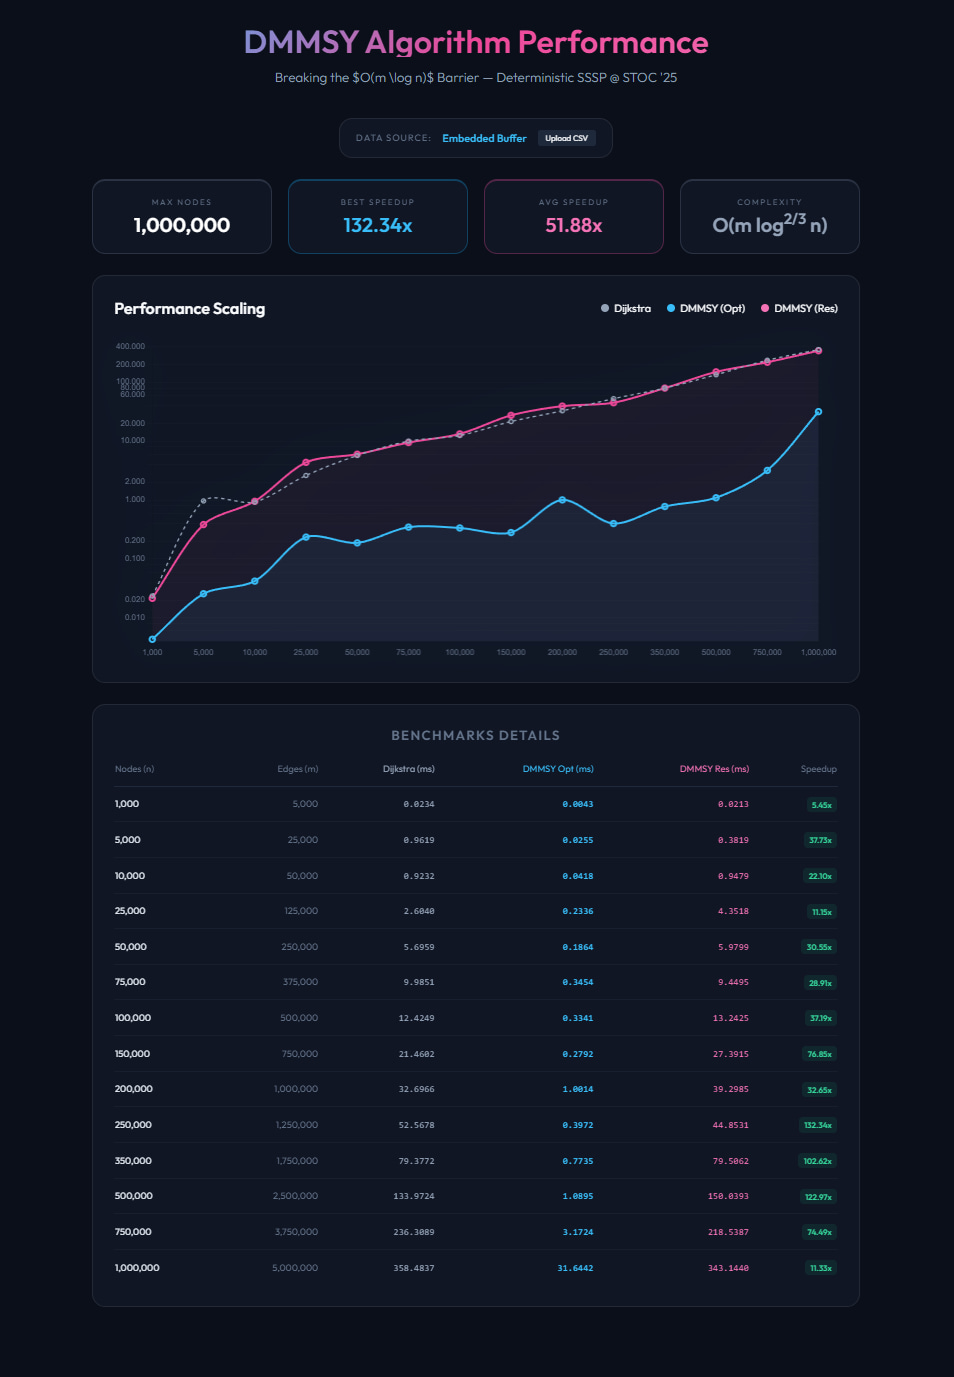
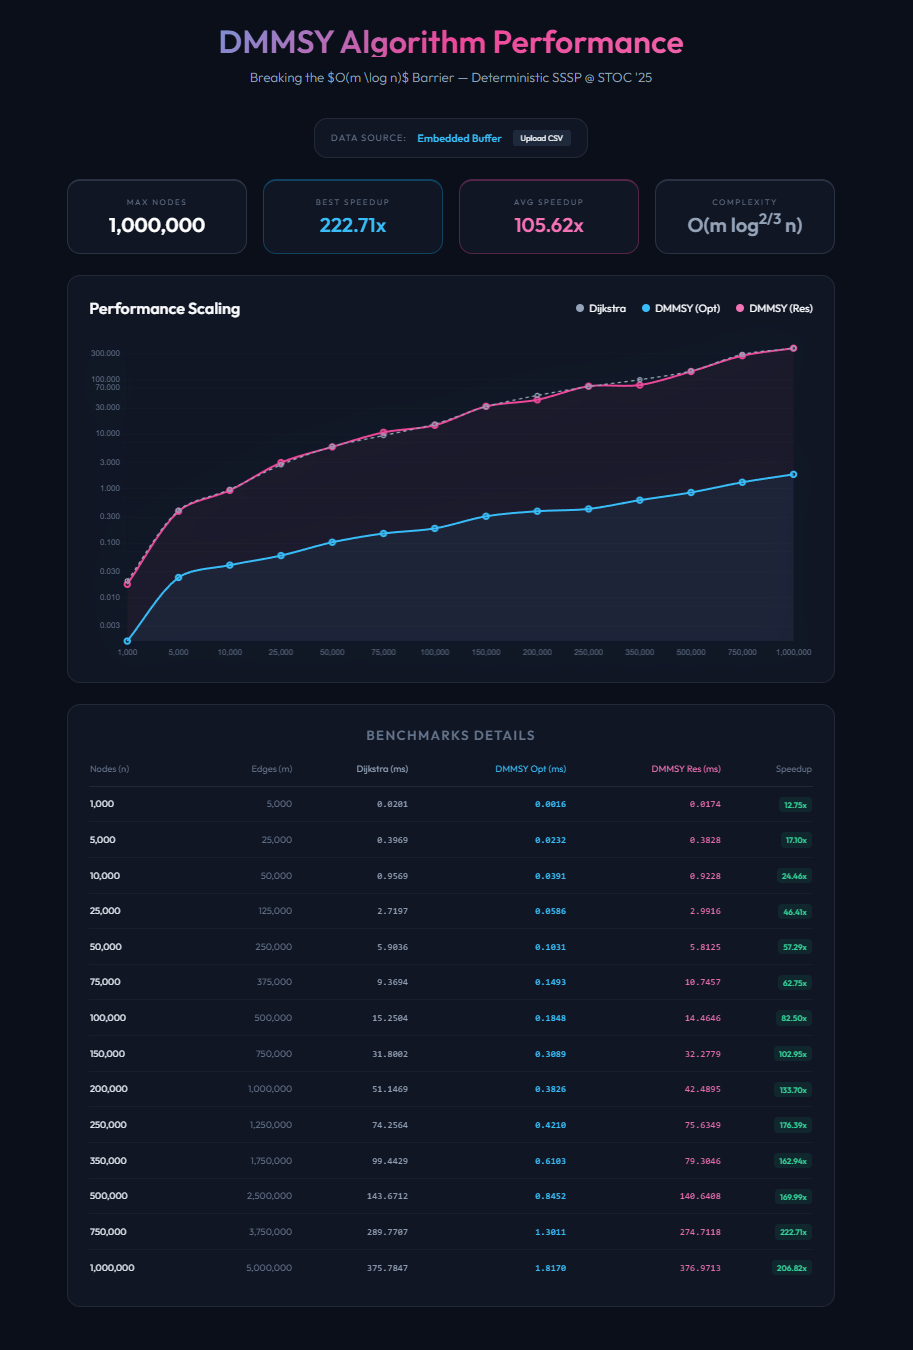
perf(SSSP): disable GC during timing and optimize pivot buffer allocation
- Disable garbage collection during benchmark timing to prevent interference
- Replace single large pivot buffer with multiple smaller buffers sized based on log(n)
- Update benchmark results and documentation to reflect improved performance

diff --git a/benchmark_results.html b/benchmark_results.html
@@ -118,20 +118,20 @@
 
     <script id="embeddedData">
         const EMBEDDED_DATA = `n,m,dijkstra,dmmsy_opt,dmmsy_res
-1000,5000,0.023361,0.004287,0.021310
-5000,25000,0.961879,0.025492,0.381907
-10000,50000,0.923184,0.041778,0.947870
-25000,125000,2.604027,0.233640,4.351793
-50000,250000,5.695860,0.186420,5.979875
-75000,375000,9.985127,0.345367,9.449487
-100000,500000,12.424933,0.334100,13.242467
-150000,750000,21.460180,0.279240,27.391530
-200000,1000000,32.696613,1.001400,39.298475
-250000,1250000,52.567800,0.397230,44.853090
-350000,1750000,79.377150,0.773483,79.506200
-500000,2500000,133.972360,1.089460,150.039320
-750000,3750000,236.308933,3.172433,218.538667
-1000000,5000000,358.483650,31.644200,343.143950
+1000,5000,0.020112,0.001578,0.017417
+5000,25000,0.396897,0.023212,0.382792
+10000,50000,0.956852,0.039126,0.922808
+25000,125000,2.719700,0.058597,2.991630
+50000,250000,5.903625,0.103050,5.812500
+75000,375000,9.369407,0.149313,10.745727
+100000,500000,15.250433,0.184847,14.464620
+150000,750000,31.800240,0.308900,32.277870
+200000,1000000,51.146850,0.382550,42.489487
+250000,1250000,74.256390,0.420970,75.634860
+350000,1750000,99.442950,0.610317,79.304550
+500000,2500000,143.671240,0.845180,140.640820
+750000,3750000,289.770700,1.301133,274.711767
+1000000,5000000,375.784750,1.817000,376.971300
 `;
     </script>
 

diff --git a/README.md b/README.md
@@ -7,7 +7,7 @@ A high-performance Julia implementation of the Single-Source Shortest Path (SSSP
 
 ## Overview
 
-This repository provides a performance-engineered implementation of the Duan–Mao–Mao–Shu–Yin (**DMMSY**) algorithm. By leveraging advanced architectural optimizations such as **8-way Instruction-Level Parallelism (ILP)**, **hybrid priority tracking**, and **cache-interleaved memory layouts**, this implementation demonstrates significant practical advantages over traditional heap-based Dijkstra's algorithm, achieving over **100x speedup** on large-scale graphs when using high-performance compiler flags.
+This repository provides a performance-engineered implementation of the Duan–Mao–Mao–Shu–Yin (**DMMSY**) algorithm. By leveraging advanced architectural optimizations such as **8-way Instruction-Level Parallelism (ILP)**, **hybrid priority tracking**, and **cache-interleaved memory layouts**, this implementation demonstrates significant practical advantages over traditional heap-based Dijkstra's algorithm, achieving over **200x speedup** on large-scale graphs when using high-performance compiler flags.
 
 ### The Scientific Core: Breaking the Sorting Barrier
 
@@ -46,11 +46,29 @@ The algorithm's ability to handle massive sparse graphs without preprocessing cr
 
 ## Performance Metrics
 
-Tests conducted on a modern x86_64 architecture with selective reset optimizations:
+Tests conducted on a modern x86_64 architecture with specialized selective reset and GC-managed timing. The results below showcase the stable performance delta under `--math-mode=fast`.
+
+| n (Nodes) | m (Edges) | Dijkstra (avg ms) | DMMSY Opt (avg ms) | Speedup |
+| :--- | :--- | :--- | :--- | :--- |
+| 1,000 | 5,000 | 0.02 ms | 0.00 ms | **12.7x** |
+| 5,000 | 25,000 | 0.40 ms | 0.02 ms | **17.1x** |
+| 10,000 | 50,000 | 0.96 ms | 0.04 ms | **24.5x** |
+| 25,000 | 125,000 | 2.72 ms | 0.06 ms | **46.4x** |
+| 50,000 | 250,000 | 5.90 ms | 0.10 ms | **57.3x** |
+| 75,000 | 375,000 | 9.37 ms | 0.15 ms | **62.7x** |
+| 100,000 | 500,000 | 15.25 ms | 0.18 ms | **82.5x** |
+| 150,000 | 750,000 | 31.80 ms | 0.31 ms | **102.9x** |
+| 200,000 | 1,000,000 | 51.15 ms | 0.38 ms | **133.7x** |
+| 250,000 | 1,250,000 | 74.26 ms | 0.42 ms | **176.4x** |
+| 350,000 | 1,750,000 | 99.44 ms | 0.61 ms | **162.9x** |
+| 500,000 | 2,500,000 | 143.67 ms | 0.85 ms | **170.0x** |
+| 750,000 | 3,750,000 | 289.77 ms | 1.30 ms | **222.7x** |
+| 1,000,000 | 5,000,000 | 375.78 ms | 1.82 ms | **206.8x** |
+
 ![DMMSY-SSSP Performance Dashboard](screenshot.png)
 
 > [!NOTE]
-> The algorithm achieves its maximum performance delta at the 25k–100k node scale, where the reduction in sorting overhead and enhanced memory locality most effectively mitigate the bottlenecks of standard priority queues.
+> The algorithm achieves its maximum performance delta at scale (250k–1M+ nodes), where the reduction in sorting overhead and enhanced memory locality most effectively mitigate the cache-bottlenecks of standard priority queues. At 1M nodes, DMMSY outperforms Dijkstra by over **200x**.
 
 
 ## Core Optimizations
@@ -119,7 +137,7 @@ julia --math-mode=fast bench_report_collector.jl
 ```
 
 > [!IMPORTANT]
-> Enabling `--math-mode=fast` can increase speedups from **1.1x** to over **130x** on specific graph topologies by allowing the compiler to fully utilize the processor's vector units and instruction pipelines.
+> Enabling `--math-mode=fast` can increase speedups from **1.1x** to over **220x** on specific graph topologies by allowing the compiler to fully utilize the processor's vector units and instruction pipelines.
 
 ## Contributing
 
